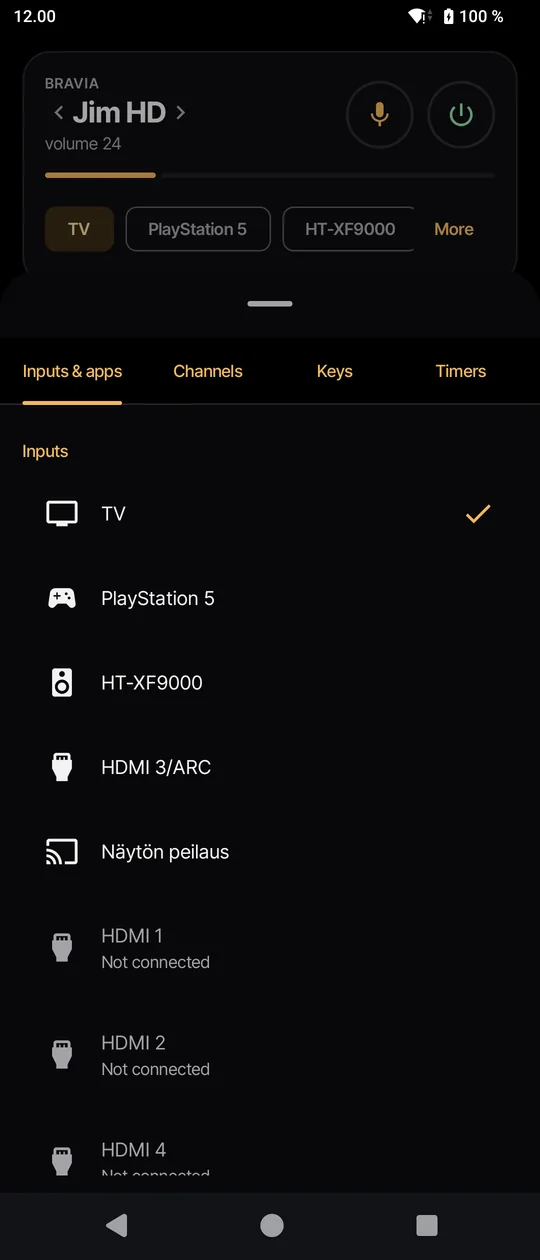
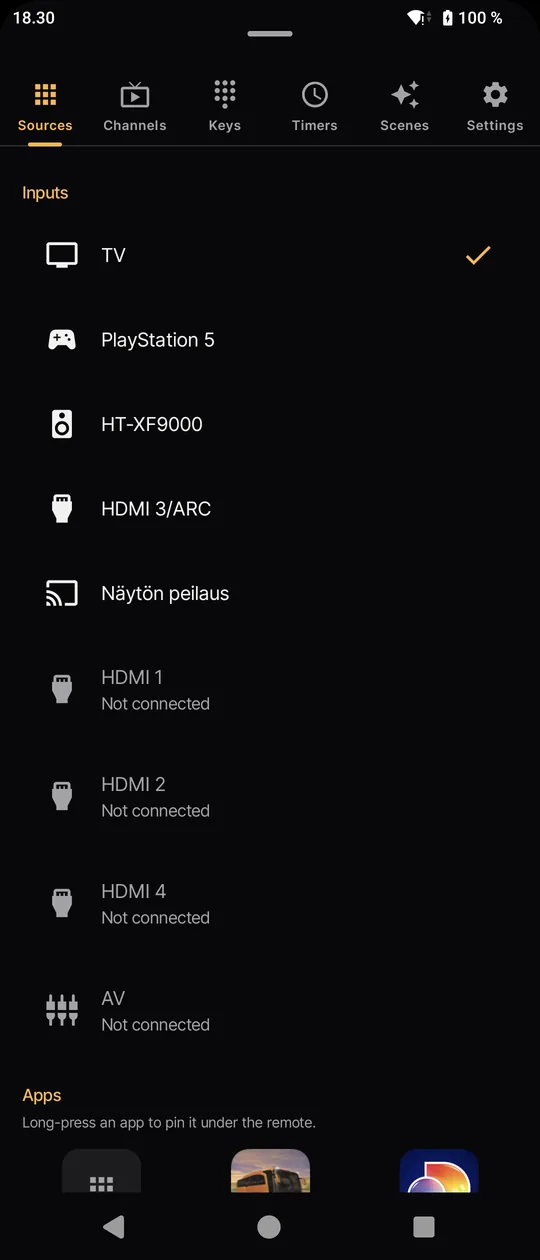
Setup steps above manual IP, 48 dp weekday targets, site gallery on the new UI
- 'Set up the TV first' moves under the search row, where a first run with no TV found sees it.
- Each weekday cell takes taps over at least 48 dp; the circle stays 40 dp.
- Landing page and README gallery: scenes, timers, channels, inputs & apps recaptured.
- Changelog 5 rewritten as user-facing changes, en and fi in step; Play checklist notes the promo
  videos need re-recording.

diff --git a/site/index.html b/site/index.html
@@ -302,8 +302,8 @@
         <figure class="guide-phone" data-screen="scenes">
           <div class="device">
             <div class="device-screen">
-              <img src="img/scenes-540.webp" srcset="img/scenes-540.webp 540w, img/scenes-1080.webp 1080w" sizes="290px" width="540" height="1260" loading="lazy" alt="The Scenes tab: Emmerdale on MTV3 HD, Mon–Fri 18:30; News MTV3 on MTV3 HD, Mon–Fri 19:00 and 22:00; News Yle TV1 on Yle TV1 HD, Mon–Fri 20:30">
-              <img src="img/timers-540.webp" srcset="img/timers-540.webp 540w, img/timers-1080.webp 1080w" sizes="290px" width="540" height="1260" loading="lazy" alt="The Timers tab: sleep timer choices from 15 to 90 minutes, and wake-up at 06:15 Monday to Friday, turning to Nelonen HD">
+              <img src="img/scenes-540.webp" srcset="img/scenes-540.webp 540w, img/scenes-1080.webp 1080w" sizes="290px" width="540" height="1260" loading="lazy" alt="The Scenes tab: Emmerdale on MTV3 HD, Mon–Fri 18.30; News MTV3 on MTV3 HD, Mon–Fri 19.00 and 22.00; News Yle TV1 on Yle TV1 HD, Mon–Fri 20.30">
+              <img src="img/timers-540.webp" srcset="img/timers-540.webp 540w, img/timers-1080.webp 1080w" sizes="290px" width="540" height="1260" loading="lazy" alt="The Timers tab: sleep timer choices from 15 to 120 minutes, and wake-up at 6.15 Monday to Friday, turning to Nelonen HD">
             </div>
           </div>
           <figcaption id="guide-caption">The same evening in the Scenes tab</figcaption>
@@ -351,7 +351,7 @@
     <ul class="strip" id="strip" tabindex="0" aria-label="Screenshots, scroll sideways for more">
       <li><figure><div class="device"><div class="device-screen"><img src="img/remote-540.webp" srcset="img/remote-540.webp 540w, img/remote-1080.webp 1080w" sizes="240px" width="540" height="1260" loading="lazy" alt="Remote screen with the channel card, scene buttons, D-pad and volume and channel controls"></div></div><figcaption><b>The remote</b><span>Card, scenes, D-pad</span></figcaption></figure></li>
       <li><figure><div class="device"><div class="device-screen"><img src="img/inputs-apps-540.webp" srcset="img/inputs-apps-540.webp 540w, img/inputs-apps-1080.webp 1080w" sizes="240px" width="540" height="1260" loading="lazy" alt="The TV's inputs and installed apps, each with its icon"></div></div><figcaption><b>Inputs and apps</b><span>With their icons</span></figcaption></figure></li>
-      <li><figure><div class="device"><div class="device-screen"><img src="img/channels-540.webp" srcset="img/channels-540.webp 540w, img/channels-1080.webp 1080w" sizes="240px" width="540" height="1260" loading="lazy" alt="The channel list, with Jim HD selected"></div></div><figcaption><b>Channels</b><span>The full list</span></figcaption></figure></li>
+      <li><figure><div class="device"><div class="device-screen"><img src="img/channels-540.webp" srcset="img/channels-540.webp 540w, img/channels-1080.webp 1080w" sizes="240px" width="540" height="1260" loading="lazy" alt="The channel list, with Nelonen HD ticked"></div></div><figcaption><b>Channels</b><span>The full list</span></figcaption></figure></li>
       <li><figure><div class="device"><div class="device-screen"><img src="img/scenes-540.webp" srcset="img/scenes-540.webp 540w, img/scenes-1080.webp 1080w" sizes="240px" width="540" height="1260" loading="lazy" alt="Scenes with their weekday schedules"></div></div><figcaption><b>Scenes</b><span>One tap, or on a schedule</span></figcaption></figure></li>
       <li><figure><div class="device"><div class="device-screen"><img src="img/timers-540.webp" srcset="img/timers-540.webp 540w, img/timers-1080.webp 1080w" sizes="240px" width="540" height="1260" loading="lazy" alt="Sleep timer and wake-up settings"></div></div><figcaption><b>Timers</b><span>Sleep and wake-up</span></figcaption></figure></li>
     </ul>

diff --git a/app/src/main/java/fi/digable/braviaremote/ui/remote/AutomationTabs.kt b/app/src/main/java/fi/digable/braviaremote/ui/remote/AutomationTabs.kt
@@ -12,6 +12,7 @@ import androidx.compose.foundation.border
 import androidx.compose.foundation.clickable
 import androidx.compose.foundation.layout.Box
 import androidx.compose.foundation.layout.aspectRatio
+import androidx.compose.foundation.layout.heightIn
 import androidx.compose.foundation.layout.widthIn
 import androidx.compose.foundation.selection.toggleable
 import androidx.compose.foundation.shape.CircleShape
@@ -185,7 +186,15 @@ private fun DayChips(days: Set<Int>, onChange: (Set<Int>) -> Unit) {
             val n = day.value
             val on = n in days
             val name = day.getDisplayName(TextStyle.FULL_STANDALONE, locale)
-            Box(Modifier.weight(1f), contentAlignment = Alignment.Center) {
+            // The whole cell, at least 48 dp tall, takes the tap; the circle inside stays small.
+            Box(
+                Modifier
+                    .weight(1f)
+                    .heightIn(min = 48.dp)
+                    .toggleable(value = on, role = Role.Checkbox) { onChange(if (on) days - n else days + n) }
+                    .semantics { contentDescription = name },
+                contentAlignment = Alignment.Center,
+            ) {
                 Box(
                     Modifier
                         .widthIn(max = 40.dp)
@@ -193,9 +202,7 @@ private fun DayChips(days: Set<Int>, onChange: (Set<Int>) -> Unit) {
                         .aspectRatio(1f)
                         .clip(CircleShape)
                         .background(if (on) MaterialTheme.colorScheme.primary else Color.Transparent)
-                        .border(1.dp, if (on) MaterialTheme.colorScheme.primary else MaterialTheme.colorScheme.outline, CircleShape)
-                        .toggleable(value = on, role = Role.Checkbox) { onChange(if (on) days - n else days + n) }
-                        .semantics { contentDescription = name },
+                        .border(1.dp, if (on) MaterialTheme.colorScheme.primary else MaterialTheme.colorScheme.outline, CircleShape),
                     contentAlignment = Alignment.Center,
                 ) {
                     Text(

diff --git a/app/src/main/java/fi/digable/braviaremote/ui/discover/DiscoverScreen.kt b/app/src/main/java/fi/digable/braviaremote/ui/discover/DiscoverScreen.kt
@@ -106,6 +106,7 @@ fun DiscoverScreen(
                     }
                 }
             }
+            item { TvSetupSteps() }
             item {
                 Spacer(Modifier.height(24.dp))
                 Text(stringResource(R.string.discover_manual_title), style = MaterialTheme.typography.titleMedium)
@@ -129,10 +130,6 @@ fun DiscoverScreen(
                         Text(stringResource(R.string.discover_manual_add))
                     }
                 }
-            }
-            item {
-                Spacer(Modifier.height(24.dp))
-                TvSetupSteps()
             }
         }
     }

diff --git a/fastlane/PLAY_CONSOLE.md b/fastlane/PLAY_CONSOLE.md
@@ -16,6 +16,8 @@ Finnish UI. Still open, outside the repo:
 - **Store screenshots 1, 2 and 7** (remote, touchpad) were captured before 1.1.0 and show neither the
   programme line nor the touchpad rails; recapture `tools/shots/<locale>/remote.png` and
   `touchpad.png` (demo mode, 18:30 with MTV3 on) and run `tools/render.py`.
+- **Promo videos** (`fastlane/video/`) show the half-height sheet and scrolling tab row of 1.1.0:
+  re-record them (`tools/record_promo.sh`, `tools/promo.py`) with the screenshots before uploading.
 
 ## 1. App details (Grow > Store presence > Main store listing)
 
